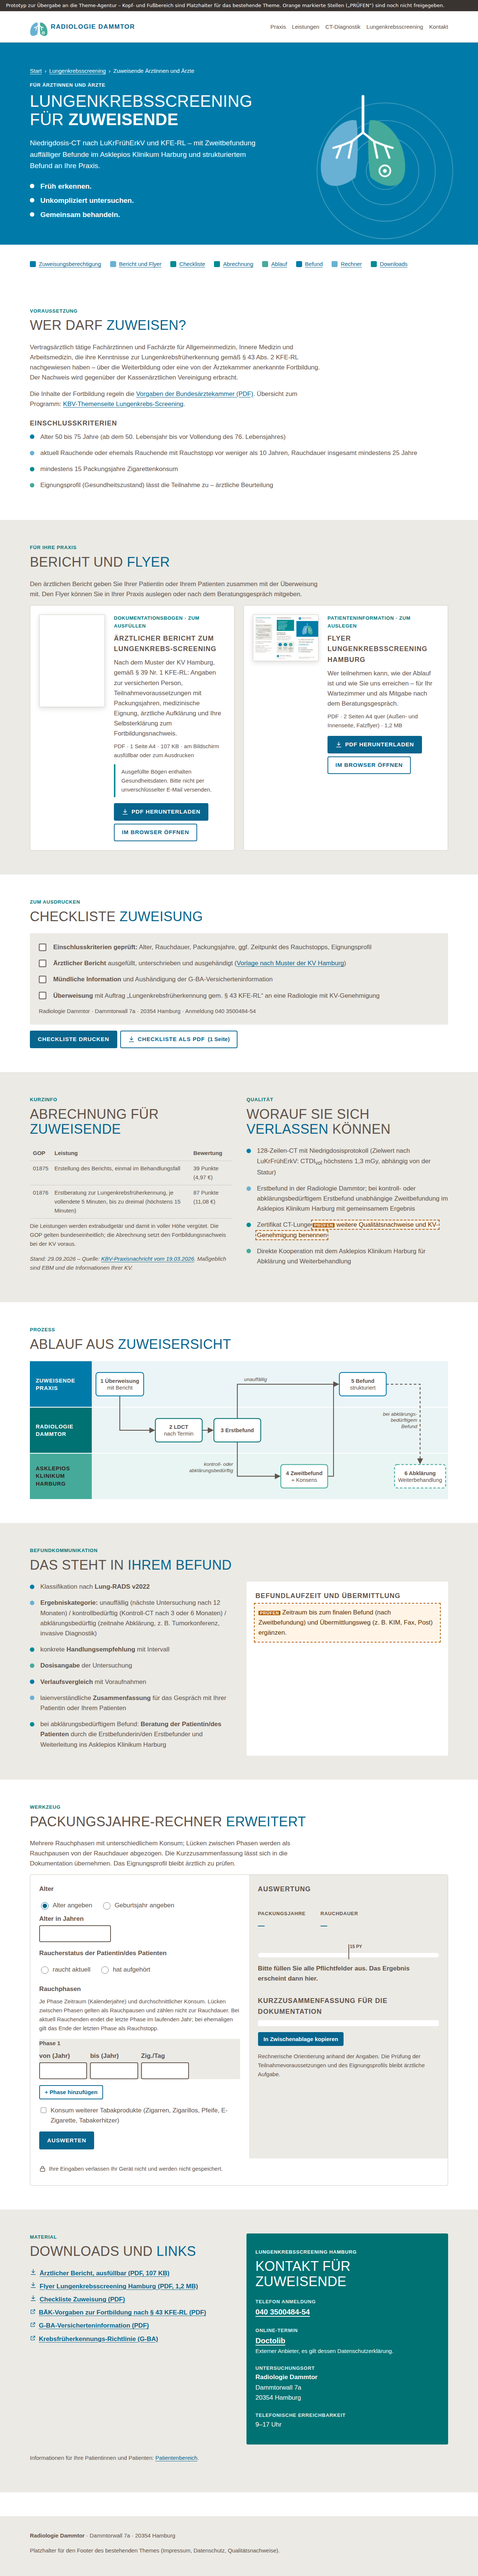
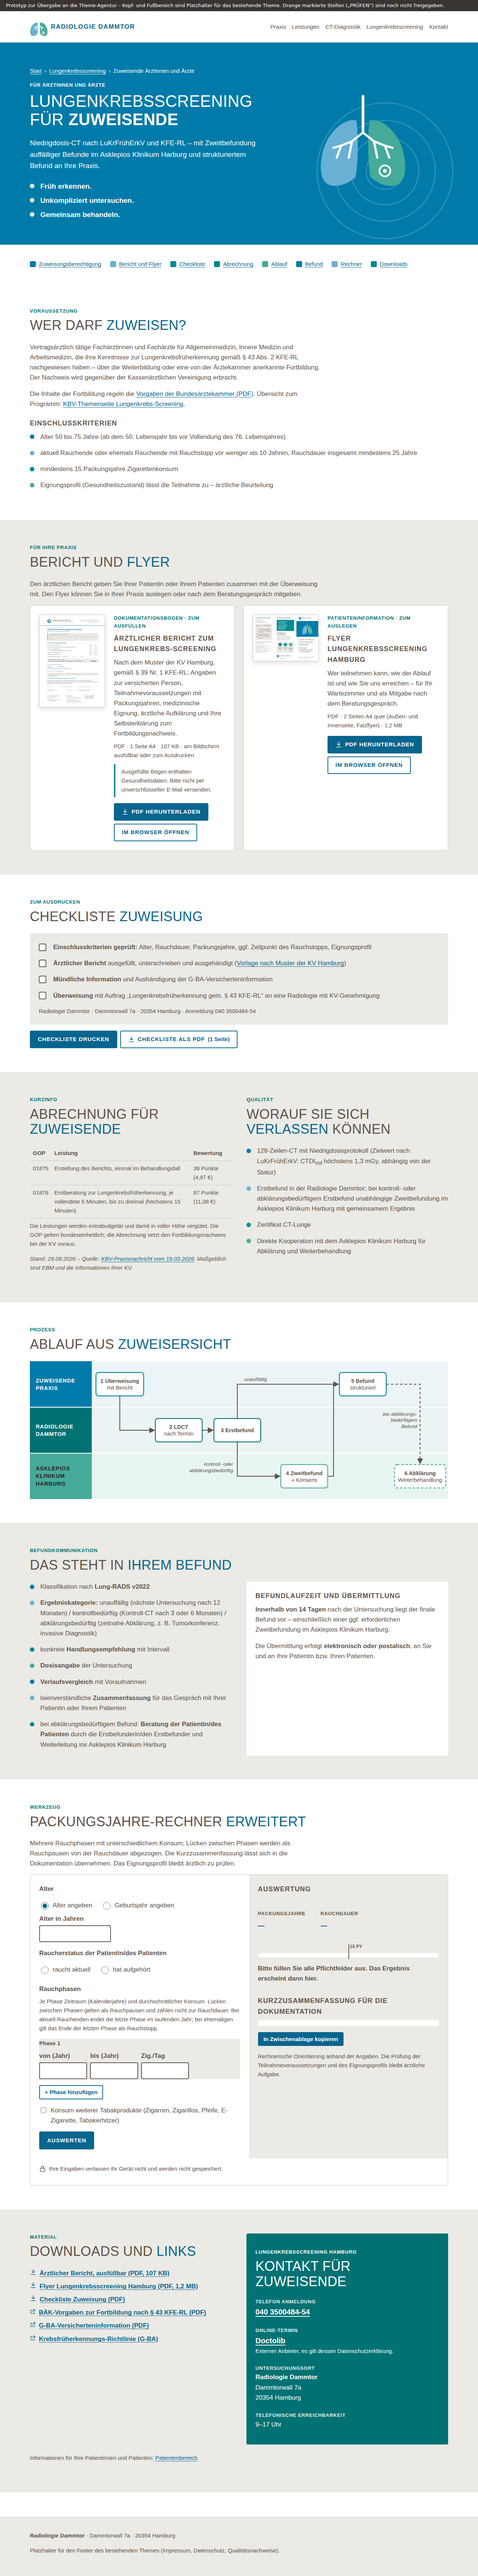
Befundlaufzeit und Übermittlung, Selbstzahlerhinweis, Kooperationszeile einzeilig
- Befund innerhalb von 14 Tagen inkl. Zweitbefundung, elektronisch oder postalisch an Patient und Zuweiser (Timeline, neue FAQ, Zuweiserseite)
- Selbstzahlende: gleiche gesetzliche Voraussetzungen, Abrechnung nach GOÄ; Rechenbeispiel nach BÄK/PKV/Beihilfe-Empfehlung in docs/RECHERCHE.md
- Qualitätsnachweise/KV-Genehmigungen werden nicht veröffentlicht (Markierung entfernt)
- Hub: Kooperationszeile ab 832 px in einer Zeile

Claude-Session: https://claude.ai/code/session_0183uJYfvx4VrFFfDh8qP2LU

Changed region(s): [[0.5312, 0.6235, 0.9375, 0.6547], [0.5312, 0.4677, 0.8125, 0.4988], [0.0938, 0.2182, 0.1875, 0.2806]]

diff --git a/public/lungenkrebsscreening/patienten/index.html b/public/lungenkrebsscreening/patienten/index.html
@@ -296,7 +296,7 @@
           </div>
         </li>
       </ol>
-      <p class="lks-note lks-pruefen">Wie lange es bis zum Ergebnis dauert und auf welchem Weg Sie und Ihre Arztpraxis den Befund erhalten, wird hier ergänzt.</p>
+      <p class="lks-note">Den Befund erhalten Sie und Ihre Arztpraxis innerhalb von 14 Tagen nach der Untersuchung – auch dann, wenn eine Zweitbefundung nötig ist. Er wird elektronisch oder per Post übermittelt.</p>
     </div>
   </section>
 
@@ -372,7 +372,11 @@
           <summary>Kostet die Untersuchung etwas?</summary>
           <div><p>Für gesetzlich Versicherte, die die Voraussetzungen erfüllen, ist die Untersuchung eine Leistung der Krankenkasse – einmal alle 12 Monate.</p>
           <p>Privat Versicherte: Ob und in welchem Umfang die private Krankenversicherung die Kosten übernimmt, hängt vom Tarif ab. Bitte klären Sie das vorab mit Ihrer Versicherung.</p>
-          <p class="lks-pruefen">Selbstzahlende: Angebot und Preis der Radiologie Dammtor ergänzen (Abrechnung nach GOÄ, eine eigene GOÄ-Ziffer gibt es nicht).</p></div>
+          <p>Selbstzahlende: Auch dann gelten dieselben gesetzlichen Voraussetzungen wie für gesetzlich Versicherte, einschließlich Beratung und Bericht Ihrer Arztpraxis. Abgerechnet wird nach der Gebührenordnung für Ärzte (GOÄ). <span class="lks-pruefen">Die voraussichtlichen Kosten nennen wir Ihnen gern vorab.</span></p></div>
+        </details>
+        <details>
+          <summary>Wann bekomme ich das Ergebnis?</summary>
+          <div><p>Innerhalb von 14 Tagen nach der Untersuchung, auch wenn eine Zweitbefundung im Asklepios Klinikum Harburg nötig ist. Sie und Ihre Arztpraxis erhalten den Befund elektronisch oder per Post. Bei einem abklärungsbedürftigen Befund sprechen wir persönlich mit Ihnen.</p></div>
         </details>
         <details>
           <summary>Was, wenn meine Hausarztpraxis nicht am Programm teilnimmt?</summary>

diff --git a/src/pages/lungenkrebsscreening/patienten/index.html b/src/pages/lungenkrebsscreening/patienten/index.html
@@ -141,7 +141,7 @@
           </div>
         </li>
       </ol>
-      <p class="lks-note lks-pruefen">Wie lange es bis zum Ergebnis dauert und auf welchem Weg Sie und Ihre Arztpraxis den Befund erhalten, wird hier ergänzt.</p>
+      <p class="lks-note">Den Befund erhalten Sie und Ihre Arztpraxis innerhalb von 14 Tagen nach der Untersuchung – auch dann, wenn eine Zweitbefundung nötig ist. Er wird elektronisch oder per Post übermittelt.</p>
     </div>
   </section>
 
@@ -217,7 +217,11 @@
           <summary>Kostet die Untersuchung etwas?</summary>
           <div><p>Für gesetzlich Versicherte, die die Voraussetzungen erfüllen, ist die Untersuchung eine Leistung der Krankenkasse – einmal alle 12 Monate.</p>
           <p>Privat Versicherte: Ob und in welchem Umfang die private Krankenversicherung die Kosten übernimmt, hängt vom Tarif ab. Bitte klären Sie das vorab mit Ihrer Versicherung.</p>
-          <p class="lks-pruefen">Selbstzahlende: Angebot und Preis der Radiologie Dammtor ergänzen (Abrechnung nach GOÄ, eine eigene GOÄ-Ziffer gibt es nicht).</p></div>
+          <p>Selbstzahlende: Auch dann gelten dieselben gesetzlichen Voraussetzungen wie für gesetzlich Versicherte, einschließlich Beratung und Bericht Ihrer Arztpraxis. Abgerechnet wird nach der Gebührenordnung für Ärzte (GOÄ). <span class="lks-pruefen">Die voraussichtlichen Kosten nennen wir Ihnen gern vorab.</span></p></div>
+        </details>
+        <details>
+          <summary>Wann bekomme ich das Ergebnis?</summary>
+          <div><p>Innerhalb von 14 Tagen nach der Untersuchung, auch wenn eine Zweitbefundung im Asklepios Klinikum Harburg nötig ist. Sie und Ihre Arztpraxis erhalten den Befund elektronisch oder per Post. Bei einem abklärungsbedürftigen Befund sprechen wir persönlich mit Ihnen.</p></div>
         </details>
         <details>
           <summary>Was, wenn meine Hausarztpraxis nicht am Programm teilnimmt?</summary>

diff --git a/public/lungenkrebsscreening/zuweiser/index.html b/public/lungenkrebsscreening/zuweiser/index.html
@@ -234,7 +234,7 @@
         <ul class="lks-dots">
           <li>128-Zeilen-CT mit Niedrigdosisprotokoll (Zielwert nach LuKrFrühErkV: CTDI<sub>vol</sub> höchstens 1,3&nbsp;mGy, abhängig von der Statur)</li>
           <li>Erstbefund in der Radiologie Dammtor; bei kontroll- oder abklärungsbedürftigem Erstbefund unabhängige Zweitbefundung im Asklepios Klinikum Harburg mit gemeinsamem Ergebnis</li>
-          <li>Zertifikat CT-Lunge <span class="lks-pruefen">weitere Qualitätsnachweise und KV-Genehmigung benennen</span></li>
+          <li>Zertifikat CT-Lunge</li>
           <li>Direkte Kooperation mit dem Asklepios Klinikum Harburg für Abklärung und Weiterbehandlung</li>
         </ul>
       </div>
@@ -347,7 +347,8 @@
         </ul>
         <div class="lks-box" style="background:var(--lks-white)">
           <h3 class="lks-h3" style="margin-top:0">Befundlaufzeit und Übermittlung</h3>
-          <p class="lks-pruefen">Zeitraum bis zum finalen Befund (nach Zweitbefundung) und Übermittlungsweg (z. B. KIM, Fax, Post) ergänzen.</p>
+          <p><strong>Innerhalb von 14 Tagen</strong> nach der Untersuchung liegt der finale Befund vor – einschließlich einer ggf. erforderlichen Zweitbefundung im Asklepios Klinikum Harburg.</p>
+          <p>Die Übermittlung erfolgt <strong>elektronisch oder postalisch</strong>, an Sie und an Ihre Patientin bzw. Ihren Patienten.</p>
         </div>
       </div>
     </div>

diff --git a/src/pages/lungenkrebsscreening/zuweiser/index.html b/src/pages/lungenkrebsscreening/zuweiser/index.html
@@ -140,7 +140,7 @@
         <ul class="lks-dots">
           <li>128-Zeilen-CT mit Niedrigdosisprotokoll (Zielwert nach LuKrFrühErkV: CTDI<sub>vol</sub> höchstens 1,3&nbsp;mGy, abhängig von der Statur)</li>
           <li>Erstbefund in der Radiologie Dammtor; bei kontroll- oder abklärungsbedürftigem Erstbefund unabhängige Zweitbefundung im Asklepios Klinikum Harburg mit gemeinsamem Ergebnis</li>
-          <li>Zertifikat CT-Lunge <span class="lks-pruefen">weitere Qualitätsnachweise und KV-Genehmigung benennen</span></li>
+          <li>Zertifikat CT-Lunge</li>
           <li>Direkte Kooperation mit dem Asklepios Klinikum Harburg für Abklärung und Weiterbehandlung</li>
         </ul>
       </div>
@@ -173,7 +173,8 @@
         </ul>
         <div class="lks-box" style="background:var(--lks-white)">
           <h3 class="lks-h3" style="margin-top:0">Befundlaufzeit und Übermittlung</h3>
-          <p class="lks-pruefen">Zeitraum bis zum finalen Befund (nach Zweitbefundung) und Übermittlungsweg (z. B. KIM, Fax, Post) ergänzen.</p>
+          <p><strong>Innerhalb von 14 Tagen</strong> nach der Untersuchung liegt der finale Befund vor – einschließlich einer ggf. erforderlichen Zweitbefundung im Asklepios Klinikum Harburg.</p>
+          <p>Die Übermittlung erfolgt <strong>elektronisch oder postalisch</strong>, an Sie und an Ihre Patientin bzw. Ihren Patienten.</p>
         </div>
       </div>
     </div>

diff --git a/assets/css/lks.css b/assets/css/lks.css
@@ -576,3 +576,8 @@ body.lks { margin: 0; background: var(--lks-white); }
 .lks-calc { grid-template-columns: minmax(0, 1fr); }
 @media (min-width: 60rem) { .lks-calc { grid-template-columns: minmax(0, 1.1fr) minmax(0, 1fr); } }
 .lks-phase { grid-template-columns: repeat(auto-fit, minmax(min(7.5rem, 100%), 1fr)); }
+
+/* Kooperationszeile (Hub): ab 832 px in einer Zeile, auf dem Handy ausgewogen umbrochen */
+.lks .lks-coop { max-width: none; }
+.lks-coop span { text-wrap: balance; hyphens: none; -webkit-hyphens: none; }
+@media (min-width: 52rem) { .lks-coop span { white-space: nowrap; } }

diff --git a/public/assets/css/lks.css b/public/assets/css/lks.css
@@ -576,3 +576,8 @@ body.lks { margin: 0; background: var(--lks-white); }
 .lks-calc { grid-template-columns: minmax(0, 1fr); }
 @media (min-width: 60rem) { .lks-calc { grid-template-columns: minmax(0, 1.1fr) minmax(0, 1fr); } }
 .lks-phase { grid-template-columns: repeat(auto-fit, minmax(min(7.5rem, 100%), 1fr)); }
+
+/* Kooperationszeile (Hub): ab 832 px in einer Zeile, auf dem Handy ausgewogen umbrochen */
+.lks .lks-coop { max-width: none; }
+.lks-coop span { text-wrap: balance; hyphens: none; -webkit-hyphens: none; }
+@media (min-width: 52rem) { .lks-coop span { white-space: nowrap; } }

diff --git a/docs/RECHERCHE.md b/docs/RECHERCHE.md
@@ -96,3 +96,25 @@ Die PDF ist **eine einzige Rastergrafik** (3369 × 2382 px, ca. 290 dpi auf A4 q
 - **Ärztlicher Bericht** (`assets/downloads/aerztlicher-bericht-lungenkrebsscreening-radiologie-dammtor.pdf`): eigener Bogen der Radiologie Dammtor „nach dem Muster der KV Hamburg“ gemäß § 39 Nr. 1 KFE-RL, mit 21 ausfüllbaren Feldern. Alle Felder sind leer, es sind keine Patientendaten enthalten. Er ersetzt auf der Zuweiserseite den Link auf den Musterbericht der KVWL.
 - **Flyer, neue Version** (`assets/downloads/flyer-lungenkrebsscreening-hamburg.pdf`): zwei Seiten (außen/innen). Titel und Dokumentsprache sind jetzt gesetzt, die Seiten sind aber weiterhin Rastergrafiken mit Texterkennungsebene (siehe Abschnitt 11). Neu ist die Nennung des Asklepios Klinikums Harburg.
 - **Sprachregelung:** Auf allen Seiten steht „Asklepios Klinikum Harburg“ statt „AK Harburg“.
+
+## 13. Selbstzahlende und Privatversicherte: Abrechnung nach GOÄ
+
+**Voraussetzungen:** Die LuKrFrühErkV gilt unabhängig davon, wer zahlt. Früherkennung mit Röntgenstrahlung ist nur zulässig, soweit eine Verordnung nach § 84 Abs. 2 StrlSchG sie erlaubt. Auch Selbstzahlende müssen also die Einschlusskriterien erfüllen und brauchen die ärztliche Beratung mit Bericht; eine „Screening-CT auf Wunsch“ außerhalb der Kriterien ist nicht zulässig.
+
+**Gemeinsame Abrechnungsempfehlung von BÄK, PKV-Verband und Beihilfeträgern** (Auszug laut Suchergebnis; Primärquelle: [PKV-Verband (PDF)](https://www.pkv.de/fileadmin/user_upload/PKV/3_PDFs/GOAE-GOZ/Abrechnungsempfehlung_Lungenkrebs-Fr%C3%BCherkennung.pdf), [BÄK-Meldung](https://www.bundesaerztekammer.de/presse/aktuelles/detail/baek-pkv-und-beihilfe-vereinbaren-abrechnungsempfehlung)):
+
+- **Erstbefunder:** NDCT des Thorax inkl. computerassistierter Detektion: GOÄ 5371, ggf. + 5377; dazu ggf. 60 (konsiliarische Erörterung mit Zuweiser/Zweitbefunder), 1 (Beratung), 75 (ausführlicher Befundbericht)
+- **Zweitbefunder** (nur bei kontroll-/abklärungsbedürftigem Erstbefund): GOÄ 85 analog, 2,3-fach, ggf. + 60 und 75
+
+**Rechenbeispiel Erstbefunder** (Punktwert 5,82873 Cent, Abschnitt O bis 1,8-fach, Zuschlag 5377 nur einfach):
+
+| GOÄ | Punkte | Faktor | Betrag |
+|---|---|---|---|
+| 5371 CT Hals/Thorax | 2300 | 1,8 | 241,31 € |
+| 5377 Zuschlag computergestützte Analyse | 800 | 1,0 | 46,63 € |
+| 1 Beratung | 80 | 2,3 | 10,72 € |
+| 75 ausführlicher Befundbericht | 130 | 2,3 | 17,43 € |
+| 60 konsiliarische Erörterung (falls erbracht) | 120 | 2,3 | 16,09 € |
+| **Summe** | | | **ca. 316 € bzw. 332 € mit GOÄ 60** |
+
+Die Zweitbefundung im Asklepios Klinikum Harburg wird von dort gesondert berechnet. Ob 5377 im Einzelfall angesetzt werden kann, bitte anhand der Empfehlung im Original prüfen. Quellen zu den Punktwerten: [GOÄ 5371](https://abrechnungsstelle.com/goae/goae-5371/), [GOÄ 5377 nur einfach](https://meinebfs.de/now/up-to-date-mehrfachberechnung-goae-5377/).

diff --git a/docs/PRUEFEN.md b/docs/PRUEFEN.md
@@ -6,13 +6,13 @@ Alle Stellen sind im Prototyp orange gestrichelt mit „PRÜFEN“ markiert (Kla
 |---|---|---|---|
 | 1 | Formulierung zur Zuweisungsberechtigung | ✅ recherchiert, eingearbeitet | siehe `RECHERCHE.md` Abschnitt 2 |
 | 2 | EBM 01875 / 01876, extrabudgetär, Stand-Datum | ✅ eingearbeitet (Stand 29.09.2026) | bundeseinheitlich; keine KVH-Abweichung gefunden |
-| 3 | Befundlaufzeit und Übermittlungsweg | ⏳ offen | praxisintern festzulegen (z. B. KIM, Fax, Post) |
+| 3 | Befundlaufzeit und Übermittlungsweg | ✅ eingearbeitet (05.10.2026) | 14 Tage inkl. Zweitbefundung; elektronisch oder postalisch an Patient und Zuweiser |
 | 4 | Kosten PKV | ✅ eingearbeitet | tarifabhängig |
-| 4a | Selbstzahler-Angebot und Preis | ⏳ offen | Entscheidung der Praxis |
+| 4a | Selbstzahler-Angebot und Preis | ⏳ offen | Text eingearbeitet, nur „Kosten vorab nennen“ markiert; Abrechnungsempfehlung siehe `RECHERCHE.md` Abschnitt 13 |
 | 5 | Rauchfrei-Telefon (BIÖG) | ✅ eingearbeitet | 0800 8 31 31 31 |
 | 6 | Zuweiser-Kontakt | ✅ Telefon Anmeldung aus dem Flyer | ggf. später eigene Durchwahl/E-Mail |
 | 7 | Telefonische Erreichbarkeit | ✅ eingearbeitet (05.10.2026) | 9–17 Uhr |
-| 8 | Qualitätsnachweise, KV-Genehmigungen (Dammtor und Asklepios Klinikum Harburg) | ⏳ offen | |
+| 8 | Qualitätsnachweise, KV-Genehmigungen | ✅ entschieden (05.10.2026) | werden nicht veröffentlicht; keine Veröffentlichungspflicht |
 | 9 | Vergleichswert zur Strahlendosis | ✅ eingearbeitet | „ein Fünftel bis ein Viertel einer üblichen Thorax-CT“ (Krebsinformationsdienst) |
 | 10 | Bericht, Flyer-PDF | ✅ eingebaut (05.10.2026) | eigener ärztlicher Bericht nach Muster der KV Hamburg (ausfüllbar) und neuer Flyer im Zuweiserbereich |
 | 11 | **Doppelbefundung** | ⚠ korrigiert | Zweitbefundung nach KFE-RL nur bei auffälligem Erstbefund; bitte bestätigen, ob freiwillig alle Untersuchungen doppelt befundet werden |
